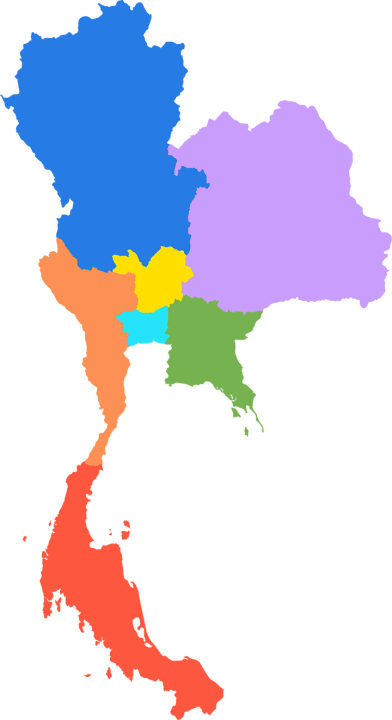
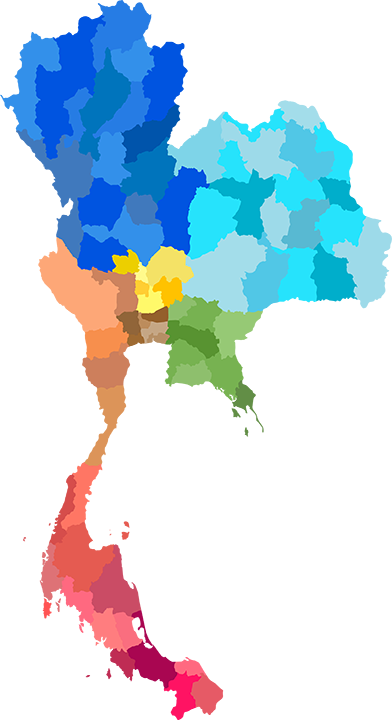
Make different colors for provinces #186

Changed region(s): [[0.0306, 0.0, 1.0, 1.0]]

diff --git a/covid_plot_utils.py b/covid_plot_utils.py
@@ -34,15 +34,15 @@ theme_light_back = '#202020'
 theme_dark_back = '#0C1111'
 
 cmap_regions = ListedColormap([
-    "#26e3fc", # Bangkok Region
-    "#ffdf00", # Central Region
-    "#77b251", # Eastern Region
-    "#fd9155", # Western Region
-    "#c89dfc", # Northeastern Region
-    "#267ce4", # Northern Region
-    "#fd583f", # Southern Region
-    "brown", # Prisons
-    "deeppink", # Imported
+    "#BC8D5D", # Bangkok Region
+    "#FFC200", # Central Region
+    "#F68E4D", # Eastern Region
+    "#77B251", # Western Region
+    "#26E2FD", # Northeastern Region
+    "#277CE5", # Northern Region
+    "#BF2C54", # Southern Region
+    "olive", # Prisons
+    "lawngreen", # Imported
     "silver", # Thailand
     ],
     name='Region Colors',
